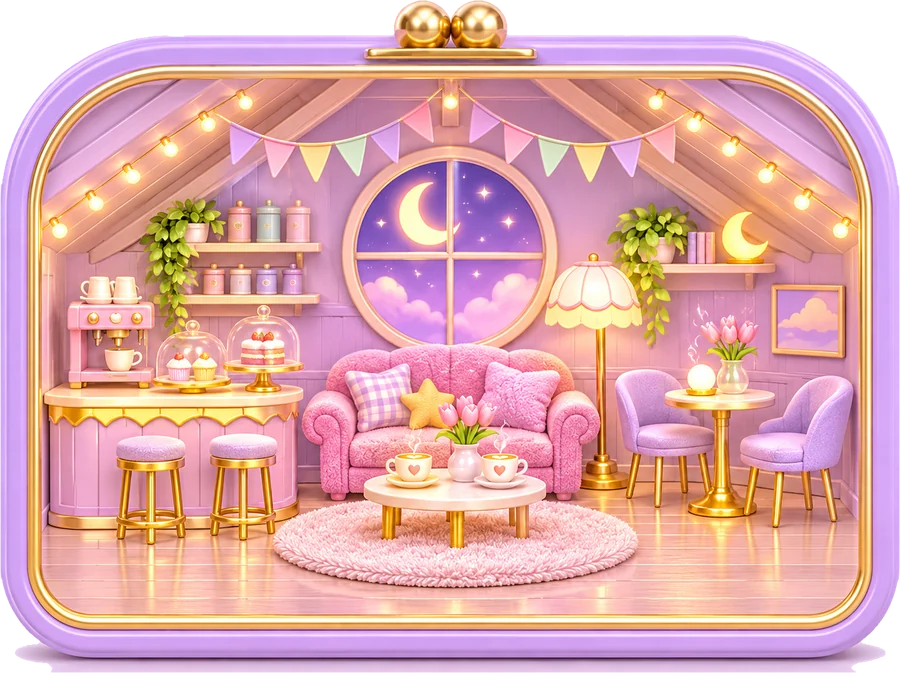
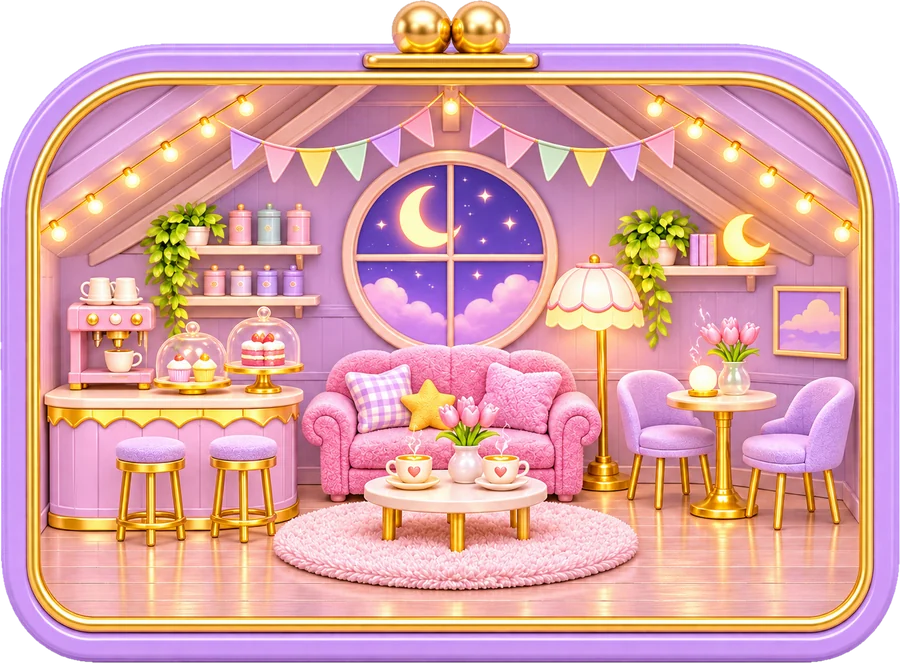
라이트 하우스와 방 5개(사무실·자료실·문서작성·카페·결과확인) 새 그림으로 교체, 투명 PNG 얼룩 정리 적용
Claude-Session: https://claude.ai/code/session_011wWXPaiuu8PZPFdYFKdKKY

diff --git a/src/assets.gen.ts b/src/assets.gen.ts
@@ -193,7 +193,7 @@ export const ASSET_META = {
   },
   "office": {
    "w": 900,
-   "h": 664
+   "h": 654
   },
   "result": {
    "w": 900,
@@ -201,15 +201,15 @@ export const ASSET_META = {
   },
   "library": {
    "w": 900,
-   "h": 669
+   "h": 660
   },
   "writing": {
    "w": 900,
-   "h": 675
+   "h": 667
   },
   "cafe": {
    "w": 900,
-   "h": 673
+   "h": 663
   },
   "garden": {
    "w": 900,

diff --git a/tools/process_assets.py b/tools/process_assets.py
@@ -155,14 +155,18 @@ def align_floors(img, shifts, out_h):
 def main(src):
     meta = {'avatars': {}}
     # 하우스와 방: 배경색 제거
-    house = trim(to_rgba(load(src, 'house'), color_fg(load(src, 'house'), 14)))
+    _, house = load_alpha(src, 'house')  # 투명 PNG: 알파 얼룩 정리
+    house = trim(house)
     house = house.resize((1000, round(house.height * 1000 / house.width)), Image.LANCZOS)
     house = house.crop((0, 0, house.width, min(house.height, 1272)))  # 바닥 아래 그림자 잔여물 제거
     save(house, f'{OUT}/house.webp', 90)
     meta['house'] = {'w': house.width, 'h': house.height}
     for r in ['reception', 'office', 'result', 'library', 'writing', 'cafe', 'garden']:
-        im = load(src, r)
-        rg = trim(to_rgba(im, color_fg(im, ROOM_TOL.get(r, 12))))
+        if r in ('office', 'result', 'library', 'writing', 'cafe'):  # 투명 PNG로 받은 방: 알파 얼룩 정리
+            _, rg = load_alpha(src, r); rg = trim(rg)
+        else:
+            im = load(src, r)
+            rg = trim(to_rgba(im, color_fg(im, ROOM_TOL.get(r, 12))))
         wmax = 900
         rg = rg.resize((wmax, round(rg.height * wmax / rg.width)), Image.LANCZOS)
         save(rg, f'{OUT}/rooms/{r}.webp', 86)
